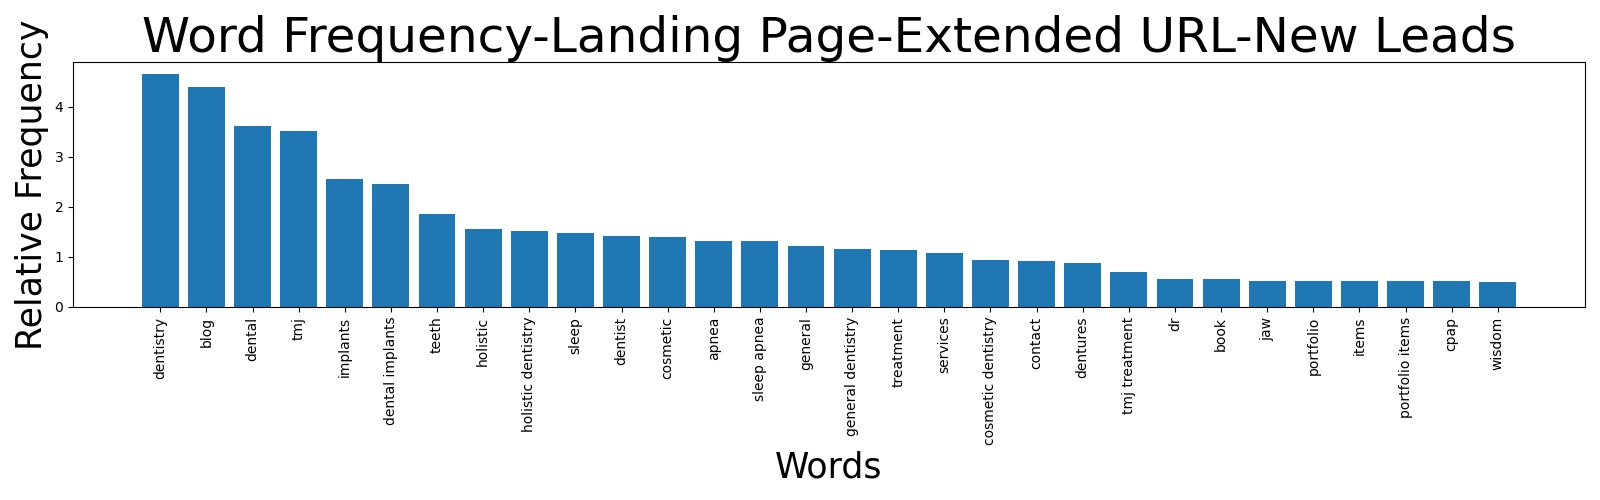
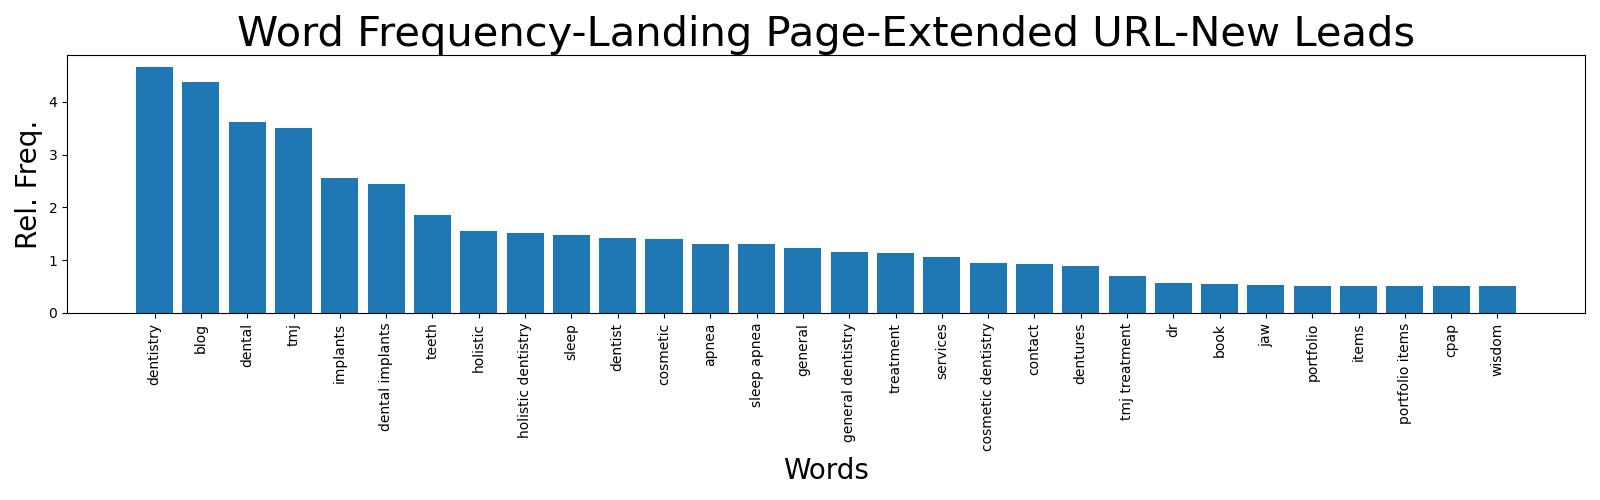
updates

Changed region(s): [[0.0, 0.03, 1.0, 0.9], [0.4688, 0.9, 0.5625, 0.96]]

diff --git a/src/EDAURL.py b/src/EDAURL.py
@@ -47,9 +47,9 @@ def plot_words(keys, values, title="Word Frequency", path="./img/WordFreq_.jpg")
     ax.bar(keys, values, align='center');
     plt.xticks(rotation=90);
     # Giving the tilte for the plot
-    ax.set_title(title, fontsize=35)
-    ax.set_xlabel('Words', fontsize=25)
-    ax.set_ylabel('Relative Frequency', fontsize=25)
+    ax.set_title(title, fontsize=30)
+    ax.set_xlabel('Words', fontsize=20)
+    ax.set_ylabel('Rel. Freq.', fontsize=20)
     fig.savefig(path)
     plt.show()
     return fig, ax
@@ -106,12 +106,23 @@ if __name__ == "__main__":
     stopwords2 = set(stopwords.words('english')).union(stopwords_)
 
     string = '''
-    Read Data, Verify Input
+    Read Data, Clean/Verify Input
     '''
     print(string)
-    df=pd.read_csv("../data/cleaned1.csv", compression="gzip")
+    df = pd.read_csv("../data/cleaned1.csv", compression="gzip")
+    df["search_query"] = df["Serach Query"]
+    df.drop(columns=["Likelihood","Is2020","Duration", "Day", "Hour of Day","Search Query"],
+        inplace=True)
+    df['dt'] = df['dt'].apply(pd.to_datetime)
+    df['year'] = pd.DatetimeIndex(df['dt']).year
+    df['month'] = pd.DatetimeIndex(df['dt']).month
+    #df['month_name'] = pd.DatetimeIndex(df['dt']).month_name
+    df['day'] = pd.DatetimeIndex(df['dt']).day_of_week
+    #df['day_of_week'] = pd.DatetimeIndex(df['dt']).day_name
+    df['hour'] = pd.DatetimeIndex(df['dt']).hour
+
     print(df.info())    
-    df["Page"].fillna(" ", inplace=True)
+    df["Page", "Search_Query"].fillna(" ", inplace=True)
 
     string = '''
     Generate URL data from URL Class
@@ -134,12 +145,12 @@ if __name__ == "__main__":
     print(string)
     index = df["New_Lead"]=="NewLead"
     index2 = df["New_Lead"]!="NewLead"
-    vectorizer_extendedNL = CountVectorizer(analyzer="word", max_features = max_features_base, 
+    vectorizer_extendedNL = CountVectorizer(analyzer="word", max_features = max_features_extended, 
         stop_words=stopwords2, ngram_range=(1,3))
     X_extendedNL = vectorizer_extendedNL.fit_transform(url1Data.loc[index, "extended_url"]).toarray()
     wc1, wf1 = count_words(vectorizer_extendedNL, X_extendedNL)
 
-    vectorizer_extendedNNL = CountVectorizer(analyzer="word", max_features = max_features_base, 
+    vectorizer_extendedNNL = CountVectorizer(analyzer="word", max_features = max_features_extended, 
         stop_words=stopwords2, ngram_range=(1,3))
     X_extendedNNL = vectorizer_extendedNNL.fit_transform(url1Data.loc[index2, "extended_url"]).toarray()
     wc2, wf2 = count_words(vectorizer_extendedNNL, X_extendedNNL)
@@ -149,7 +160,7 @@ if __name__ == "__main__":
         path = "../img/WordFreqLPExtURLNNL.jpg")
 
     string = '''
-    Get Dominant Features for Data Frame, no index.
+    Get Dominant Features for Data Frame.
     First set Vectorizer
     Then Set BOW
     Then Count_words()
@@ -164,3 +175,43 @@ if __name__ == "__main__":
     df = pd.concat([df, df_ex.loc[:,wfex[:10].index]], axis=1)
     print(df)
     print(df.info())
+
+
+    string = '''
+    Get BOW & Word Counts (wc) for 
+    Base URL
+    '''
+    print(string)
+    vectorizer_baseNL = CountVectorizer(analyzer="word", max_features = max_features_base, 
+        stop_words=stopwords2, ngram_range=(1,1))
+    X_baseNL = vectorizer_baseNL.fit_transform(url1Data.loc[index, "base_url"]).toarray()
+    wc1, wf1 = count_words(vectorizer_baseNL, X_baseNL)
+
+    vectorizer_baseNNL = CountVectorizer(analyzer="word", max_features = max_features_base, 
+        stop_words=stopwords2, ngram_range=(1,1))
+    X_baseNNL = vectorizer_baseNNL.fit_transform(url1Data.loc[index2, "base_url"]).toarray()
+    wc2, wf2 = count_words(vectorizer_baseNNL, X_baseNNL)
+    plot_words(wf1.index[:30], wf1[:30], title="Word Frequency-Landing Page-Base URL-New Leads", 
+        path = "../img/WordFreqLPBaeURLNL.jpg")
+    plot_words(wf2.index[:30], wf2[:30], title="Word Frequency-Landing Page-Base URL-Non Leads", 
+        path = "../img/WordFreqLPBaseURLNNL.jpg")
+    
+    string = '''
+    Get Dominant Features for base URL Data Frame.
+    First set Vectorizer
+    Then Set BOW
+    Then Count_words()
+    then set DF
+    '''
+    print(string)
+    vectorizer_base = CountVectorizer(analyzer="word", max_features= max_features_extended,
+        stop_words=stopwords2, ngram_range=(1,1))
+    X_base = vectorizer_base.fit_transform(url1Data["base_url"]).toarray()
+    wcbase, wfbase = count_words(vectorizer_base, X_base)
+    df_base = pd.DataFrame(data=X_base, columns=vectorizer_base.get_feature_names())
+    df = pd.concat([df, df_base.loc[:,wfbase[:10].index]], axis=1)
+    print(df)
+    print(df.info())
+
+    
+    
